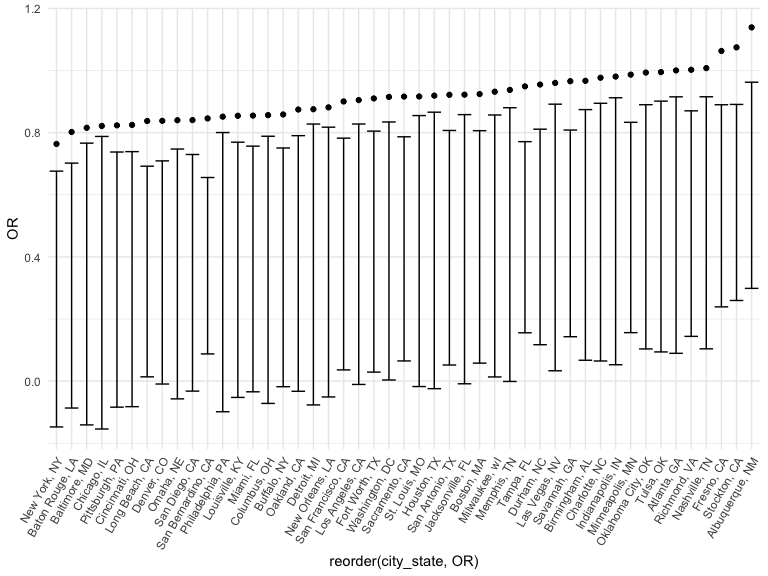
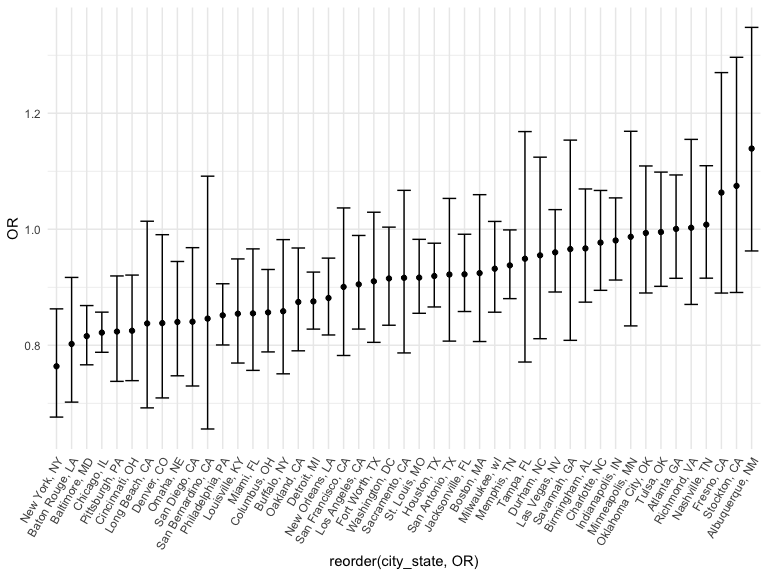
Problem 2 - Load weather_df, setup bootstrapping function, test on 1,000 bootstraps, apply lm, test extracting rsquared and log(beta_coefficients)

diff --git a/p8105_hw6_khs2138.md b/p8105_hw6_khs2138.md
@@ -8,6 +8,7 @@ Kayla Schiffer-Kane
   - [GLM Baltimore](#glm-baltimore)
   - [City-wise GLM](#city-wise-glm)
   - [Plot OR and CIs](#plot-or-and-cis)
+- [Problem 2](#problem-2)
 
 # Problem 1
 
@@ -85,11 +86,9 @@ city_logistic = homicide_data |>
   nest(data = -city_state) |>
   mutate(glm = map(data, \(data) glm(solved ~ victim_sex + victim_race + victim_age,  
                                      data = data) |>
-                     broom::tidy(conf.int=TRUE))) |>
+                     broom::tidy(conf.int=TRUE, exp = TRUE))) |>
   unnest(glm) |>
-  mutate(OR = exp(estimate),
-         conf.low = exp(conf.low),
-         con.high = exp(conf.high)) |>
+  mutate(OR = estimate) |>
   select(city_state, term, OR, p.value, conf.low, conf.high) |>
   filter(term %in% c("victim_sex","victim_sexMale","victim_sexFemale"))
 
@@ -97,55 +96,55 @@ city_logistic |>
   knitr::kable()
 ```
 
-| city_state         | term           |        OR |   p.value |  conf.low |  conf.high |
-|:-------------------|:---------------|----------:|----------:|----------:|-----------:|
-| Albuquerque, NM    | victim_sexMale | 1.1390712 | 0.1314781 | 0.9625464 |  0.2985993 |
-| Atlanta, GA        | victim_sexMale | 1.0005193 | 0.9908724 | 0.9153934 |  0.0894397 |
-| Baltimore, MD      | victim_sexMale | 0.8157365 | 0.0000000 | 0.7662616 | -0.1410963 |
-| Baton Rouge, LA    | victim_sexMale | 0.8022543 | 0.0013271 | 0.7019324 | -0.0867412 |
-| Birmingham, AL     | victim_sexMale | 0.9669546 | 0.5133899 | 0.8743020 |  0.0671220 |
-| Boston, MA         | victim_sexMale | 0.9243657 | 0.2594040 | 0.8064070 |  0.0578717 |
-| Buffalo, NY        | victim_sexMale | 0.8586506 | 0.0266457 | 0.7507275 | -0.0180738 |
-| Charlotte, NC      | victim_sexMale | 0.9769660 | 0.6039922 | 0.8946579 |  0.0647071 |
-| Chicago, IL        | victim_sexMale | 0.8217273 | 0.0000000 | 0.7878555 | -0.1542529 |
-| Cincinnati, OH     | victim_sexMale | 0.8249529 | 0.0006495 | 0.7389595 | -0.0823458 |
-| Columbus, OH       | victim_sexMale | 0.8566020 | 0.0002636 | 0.7884917 | -0.0719304 |
-| Denver, CO         | victim_sexMale | 0.8381536 | 0.0396375 | 0.7091705 | -0.0094486 |
-| Detroit, MI        | victim_sexMale | 0.8755806 | 0.0000036 | 0.8278085 | -0.0767627 |
-| Durham, NC         | victim_sexMale | 0.9550185 | 0.5807926 | 0.8112823 |  0.1170900 |
-| Fort Worth, TX     | victim_sexMale | 0.9102630 | 0.1346385 | 0.8049822 |  0.0288917 |
-| Fresno, CA         | victim_sexMale | 1.0631507 | 0.5004335 | 0.8899643 |  0.2390476 |
-| Houston, TX        | victim_sexMale | 0.9193087 | 0.0058386 | 0.8659903 | -0.0243850 |
-| Indianapolis, IN   | victim_sexMale | 0.9806640 | 0.5958691 | 0.9124109 |  0.0526140 |
-| Jacksonville, FL   | victim_sexMale | 0.9223401 | 0.0283084 | 0.8581298 | -0.0086825 |
-| Las Vegas, NV      | victim_sexMale | 0.9601634 | 0.2811234 | 0.8917830 |  0.0332288 |
-| Long Beach, CA     | victim_sexMale | 0.8375926 | 0.0705089 | 0.6920139 |  0.0137024 |
-| Los Angeles, CA    | victim_sexMale | 0.9049770 | 0.0281853 | 0.8278785 | -0.0108027 |
-| Louisville, KY     | victim_sexMale | 0.8543645 | 0.0033942 | 0.7693283 | -0.0525573 |
-| Memphis, TN        | victim_sexMale | 0.9377110 | 0.0460370 | 0.8803460 | -0.0011867 |
-| Miami, FL          | victim_sexMale | 0.8549934 | 0.0123405 | 0.7566545 | -0.0344746 |
-| Milwaukee, wI      | victim_sexMale | 0.9319241 | 0.0996980 | 0.8569625 |  0.0133532 |
-| Minneapolis, MN    | victim_sexMale | 0.9869343 | 0.8789956 | 0.8333335 |  0.1560176 |
-| Nashville, TN      | victim_sexMale | 1.0079105 | 0.8722794 | 0.9156245 |  0.1039076 |
-| New Orleans, LA    | victim_sexMale | 0.8814679 | 0.0010145 | 0.8177140 | -0.0510908 |
-| New York, NY       | victim_sexMale | 0.7637459 | 0.0000183 | 0.6761331 | -0.1476751 |
-| Oakland, CA        | victim_sexMale | 0.8745391 | 0.0095911 | 0.7903881 | -0.0328853 |
-| Oklahoma City, OK  | victim_sexMale | 0.9935634 | 0.9084310 | 0.8900833 |  0.1035254 |
-| Omaha, NE          | victim_sexMale | 0.8400995 | 0.0037434 | 0.7473239 | -0.0572134 |
-| Philadelphia, PA   | victim_sexMale | 0.8516025 | 0.0000004 | 0.8004703 | -0.0987148 |
-| Pittsburgh, PA     | victim_sexMale | 0.8235901 | 0.0005886 | 0.7377210 | -0.0839751 |
-| Richmond, VA       | victim_sexMale | 1.0025804 | 0.9715362 | 0.8703483 |  0.1440160 |
-| San Antonio, TX    | victim_sexMale | 0.9219496 | 0.2320853 | 0.8071190 |  0.0517548 |
-| Sacramento, CA     | victim_sexMale | 0.9162242 | 0.2615604 | 0.7867370 |  0.0648729 |
-| Savannah, GA       | victim_sexMale | 0.9657366 | 0.7010863 | 0.8084399 |  0.1429206 |
-| San Bernardino, CA | victim_sexMale | 0.8459249 | 0.2001555 | 0.6556212 |  0.0875226 |
-| San Diego, CA      | victim_sexMale | 0.8405635 | 0.0167423 | 0.7297372 | -0.0322947 |
-| San Francisco, CA  | victim_sexMale | 0.9005776 | 0.1454915 | 0.7823300 |  0.0360408 |
-| St. Louis, MO      | victim_sexMale | 0.9166148 | 0.0141616 | 0.8550826 | -0.0175787 |
-| Stockton, CA       | victim_sexMale | 1.0747297 | 0.4522380 | 0.8909635 |  0.2595901 |
-| Tampa, FL          | victim_sexMale | 0.9491292 | 0.6229995 | 0.7710549 |  0.1555748 |
-| Tulsa, OK          | victim_sexMale | 0.9951681 | 0.9234718 | 0.9015676 |  0.0939329 |
-| Washington, DC     | victim_sexMale | 0.9151561 | 0.0598747 | 0.8344983 |  0.0036032 |
+| city_state         | term           |        OR |   p.value |  conf.low | conf.high |
+|:-------------------|:---------------|----------:|----------:|----------:|----------:|
+| Albuquerque, NM    | victim_sexMale | 1.1390712 | 0.1314781 | 0.9625464 | 1.3479694 |
+| Atlanta, GA        | victim_sexMale | 1.0005193 | 0.9908724 | 0.9153934 | 1.0935614 |
+| Baltimore, MD      | victim_sexMale | 0.8157365 | 0.0000000 | 0.7662616 | 0.8684057 |
+| Baton Rouge, LA    | victim_sexMale | 0.8022543 | 0.0013271 | 0.7019324 | 0.9169143 |
+| Birmingham, AL     | victim_sexMale | 0.9669546 | 0.5133899 | 0.8743020 | 1.0694259 |
+| Boston, MA         | victim_sexMale | 0.9243657 | 0.2594040 | 0.8064070 | 1.0595790 |
+| Buffalo, NY        | victim_sexMale | 0.8586506 | 0.0266457 | 0.7507275 | 0.9820886 |
+| Charlotte, NC      | victim_sexMale | 0.9769660 | 0.6039922 | 0.8946579 | 1.0668465 |
+| Chicago, IL        | victim_sexMale | 0.8217273 | 0.0000000 | 0.7878555 | 0.8570552 |
+| Cincinnati, OH     | victim_sexMale | 0.8249529 | 0.0006495 | 0.7389595 | 0.9209534 |
+| Columbus, OH       | victim_sexMale | 0.8566020 | 0.0002636 | 0.7884917 | 0.9305956 |
+| Denver, CO         | victim_sexMale | 0.8381536 | 0.0396375 | 0.7091705 | 0.9905959 |
+| Detroit, MI        | victim_sexMale | 0.8755806 | 0.0000036 | 0.8278085 | 0.9261096 |
+| Durham, NC         | victim_sexMale | 0.9550185 | 0.5807926 | 0.8112823 | 1.1242206 |
+| Fort Worth, TX     | victim_sexMale | 0.9102630 | 0.1346385 | 0.8049822 | 1.0293131 |
+| Fresno, CA         | victim_sexMale | 1.0631507 | 0.5004335 | 0.8899643 | 1.2700390 |
+| Houston, TX        | victim_sexMale | 0.9193087 | 0.0058386 | 0.8659903 | 0.9759099 |
+| Indianapolis, IN   | victim_sexMale | 0.9806640 | 0.5958691 | 0.9124109 | 1.0540227 |
+| Jacksonville, FL   | victim_sexMale | 0.9223401 | 0.0283084 | 0.8581298 | 0.9913550 |
+| Las Vegas, NV      | victim_sexMale | 0.9601634 | 0.2811234 | 0.8917830 | 1.0337871 |
+| Long Beach, CA     | victim_sexMale | 0.8375926 | 0.0705089 | 0.6920139 | 1.0137967 |
+| Los Angeles, CA    | victim_sexMale | 0.9049770 | 0.0281853 | 0.8278785 | 0.9892554 |
+| Louisville, KY     | victim_sexMale | 0.8543645 | 0.0033942 | 0.7693283 | 0.9487999 |
+| Memphis, TN        | victim_sexMale | 0.9377110 | 0.0460370 | 0.8803460 | 0.9988140 |
+| Miami, FL          | victim_sexMale | 0.8549934 | 0.0123405 | 0.7566545 | 0.9661129 |
+| Milwaukee, wI      | victim_sexMale | 0.9319241 | 0.0996980 | 0.8569625 | 1.0134428 |
+| Minneapolis, MN    | victim_sexMale | 0.9869343 | 0.8789956 | 0.8333335 | 1.1688468 |
+| Nashville, TN      | victim_sexMale | 1.0079105 | 0.8722794 | 0.9156245 | 1.1094980 |
+| New Orleans, LA    | victim_sexMale | 0.8814679 | 0.0010145 | 0.8177140 | 0.9501924 |
+| New York, NY       | victim_sexMale | 0.7637459 | 0.0000183 | 0.6761331 | 0.8627114 |
+| Oakland, CA        | victim_sexMale | 0.8745391 | 0.0095911 | 0.7903881 | 0.9676495 |
+| Oklahoma City, OK  | victim_sexMale | 0.9935634 | 0.9084310 | 0.8900833 | 1.1090740 |
+| Omaha, NE          | victim_sexMale | 0.8400995 | 0.0037434 | 0.7473239 | 0.9443925 |
+| Philadelphia, PA   | victim_sexMale | 0.8516025 | 0.0000004 | 0.8004703 | 0.9060010 |
+| Pittsburgh, PA     | victim_sexMale | 0.8235901 | 0.0005886 | 0.7377210 | 0.9194541 |
+| Richmond, VA       | victim_sexMale | 1.0025804 | 0.9715362 | 0.8703483 | 1.1549025 |
+| San Antonio, TX    | victim_sexMale | 0.9219496 | 0.2320853 | 0.8071190 | 1.0531175 |
+| Sacramento, CA     | victim_sexMale | 0.9162242 | 0.2615604 | 0.7867370 | 1.0670233 |
+| Savannah, GA       | victim_sexMale | 0.9657366 | 0.7010863 | 0.8084399 | 1.1536381 |
+| San Bernardino, CA | victim_sexMale | 0.8459249 | 0.2001555 | 0.6556212 | 1.0914669 |
+| San Diego, CA      | victim_sexMale | 0.8405635 | 0.0167423 | 0.7297372 | 0.9682212 |
+| San Francisco, CA  | victim_sexMale | 0.9005776 | 0.1454915 | 0.7823300 | 1.0366982 |
+| St. Louis, MO      | victim_sexMale | 0.9166148 | 0.0141616 | 0.8550826 | 0.9825749 |
+| Stockton, CA       | victim_sexMale | 1.0747297 | 0.4522380 | 0.8909635 | 1.2963985 |
+| Tampa, FL          | victim_sexMale | 0.9491292 | 0.6229995 | 0.7710549 | 1.1683294 |
+| Tulsa, OK          | victim_sexMale | 0.9951681 | 0.9234718 | 0.9015676 | 1.0984861 |
+| Washington, DC     | victim_sexMale | 0.9151561 | 0.0598747 | 0.8344983 | 1.0036097 |
 
 ``` r
 city_logistic |>
@@ -167,3 +166,130 @@ city_logistic |>
 ```
 
 <img src="p8105_hw6_khs2138_files/figure-gfm/plot_or_cis-1.png" width="90%" />
+
+There are only a few cities, including Albuquerque and Stockholm, where
+homocides are more likely to be solved for men than women. In most
+cities, the odds ratio are in favor of homicides being solved for female
+victims.
+
+# Problem 2
+
+For this problem, we’ll use the Central Park weather data similar to
+data we’ve seen elsewhere. The code chunk below (adapted from the course
+website) will download these data.
+
+``` r
+weather_df = 
+  rnoaa::meteo_pull_monitors(
+    c("USW00094728"),
+    var = c("PRCP", "TMIN", "TMAX"), 
+    date_min = "2022-01-01",
+    date_max = "2022-12-31") |>
+  mutate(
+    name = recode(id, USW00094728 = "CentralPark_NY"),
+    tmin = tmin / 10,
+    tmax = tmax / 10) |>
+  select(name, id, everything())
+```
+
+The boostrap is helpful when you’d like to perform inference for a
+parameter / value / summary that doesn’t have an easy-to-write-down
+distribution in the usual repeated sampling framework. We’ll focus on a
+simple linear regression with `tmax` as the response with `tmin` and
+`prcp` as the predictors, and are interested in the distribution of two
+quantities estimated from these data:
+
+- $\hat{r}^2$
+- $\log(\hat{\beta}_1 * \hat{\beta}_2)$
+
+Use 5000 bootstrap samples and, for each bootstrap sample, produce
+estimates of these two quantities. Plot the distribution of your
+estimates, and describe these in words. Using the 5000 bootstrap
+estimates, identify the 2.5% and 97.5% quantiles to provide a 95%
+confidence interval for $\hat{r}^2$ and
+$\log(\hat{\beta}_0 * \hat{\beta}_1)$. Note: `broom::glance()` is
+helpful for extracting $\hat{r}^2$ from a fitted regression, and
+`broom::tidy()` (with some additional wrangling) should help in
+computing $\log(\hat{\beta}_1 * \hat{\beta}_2)$.
+
+``` r
+boot_sample = function(df) {
+  sample_frac(df, replace = TRUE)
+}
+
+boot_straps = 
+  tibble(strap_number = 1:1000) |> 
+  mutate(
+    strap_sample = map(strap_number, \(i) boot_sample(df = weather_df))
+  )
+
+boot_straps
+```
+
+    ## # A tibble: 1,000 × 2
+    ##    strap_number strap_sample      
+    ##           <int> <list>            
+    ##  1            1 <tibble [365 × 6]>
+    ##  2            2 <tibble [365 × 6]>
+    ##  3            3 <tibble [365 × 6]>
+    ##  4            4 <tibble [365 × 6]>
+    ##  5            5 <tibble [365 × 6]>
+    ##  6            6 <tibble [365 × 6]>
+    ##  7            7 <tibble [365 × 6]>
+    ##  8            8 <tibble [365 × 6]>
+    ##  9            9 <tibble [365 × 6]>
+    ## 10           10 <tibble [365 × 6]>
+    ## # ℹ 990 more rows
+
+``` r
+bootstrap_results = 
+  boot_straps |> 
+  mutate(
+    models = map(strap_sample, \(df) lm(tmax ~ tmin + prcp, data = df) ),
+    results = map(models, broom::tidy)) |> 
+  select(-strap_sample, -models) |> 
+  unnest(results) 
+
+bootstrap_results 
+```
+
+    ## # A tibble: 3,000 × 6
+    ##    strap_number term        estimate std.error statistic   p.value
+    ##           <int> <chr>          <dbl>     <dbl>     <dbl>     <dbl>
+    ##  1            1 (Intercept)  8.50      0.241       35.3  2.30e-119
+    ##  2            1 tmin         0.972     0.0172      56.6  8.29e-182
+    ##  3            1 prcp         0.00449   0.00211      2.12 3.46e-  2
+    ##  4            2 (Intercept)  7.99      0.207       38.6  2.90e-130
+    ##  5            2 tmin         1.02      0.0149      68.4  4.78e-209
+    ##  6            2 prcp        -0.00702   0.00198     -3.55 4.35e-  4
+    ##  7            3 (Intercept)  8.10      0.209       38.7  7.88e-131
+    ##  8            3 tmin         1.03      0.0154      66.9  8.45e-206
+    ##  9            3 prcp        -0.00776   0.00177     -4.38 1.58e-  5
+    ## 10            4 (Intercept)  8.18      0.202       40.6  9.96e-137
+    ## # ℹ 2,990 more rows
+
+``` r
+lm(tmax ~ tmin + prcp, data = weather_df) |>
+  broom::glance() |>
+  select(r.squared) 
+```
+
+    ## # A tibble: 1 × 1
+    ##   r.squared
+    ##       <dbl>
+    ## 1     0.916
+
+``` r
+lm(tmax ~ tmin + prcp, data = weather_df) |>
+  broom::tidy() |>
+  mutate(beta_prod = (estimate[2] * estimate[3])) |>
+  mutate(log_beta = log(beta_prod)) |>
+  select(log_beta)
+```
+
+    ## # A tibble: 3 × 1
+    ##   log_beta
+    ##      <dbl>
+    ## 1      NaN
+    ## 2      NaN
+    ## 3      NaN
